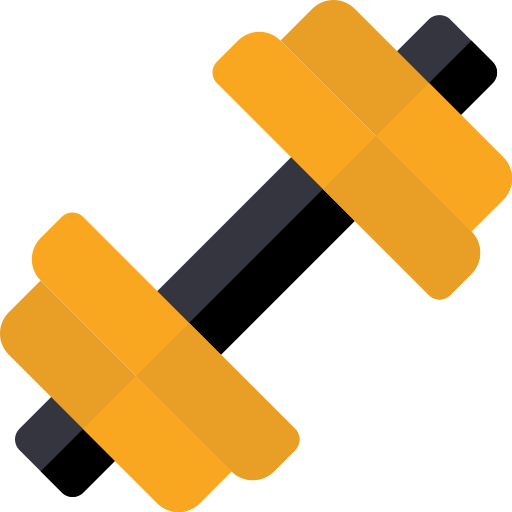
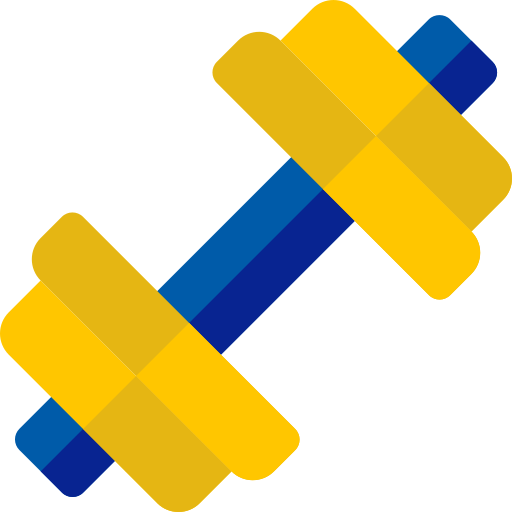
Accent Color e novas imagens

Changed region(s): [[0.0, 0.0, 0.9688, 0.9688]]

diff --git a/boxgym/src/boxgym/css/theme.css b/boxgym/src/boxgym/css/theme.css
@@ -64,7 +64,7 @@
 
 .date-picker-popup > * > .day-cell.selected {
     -fx-background-color: -main-theme-color !important;
-    -fx-text-fill: #111 !important;
+    -fx-text-fill: white !important;
 }
 
 .date-picker-popup > * > .day-cell.selected:hover {
@@ -77,6 +77,7 @@
 
 .combo-box-popup > .list-view > .virtual-flow > .clipped-container > .sheet > .list-cell:filled:selected{
     -fx-background-color: -main-theme-color !important;
+    -fx-text-fill: white !important;
 }
 
 .up-down-icon{

diff --git a/boxgym/src/boxgym/css/dialog-pane.css b/boxgym/src/boxgym/css/dialog-pane.css
@@ -14,7 +14,7 @@
 
 .myDialog .button:default{
     -fx-background-color: -main-theme-color !important;
-    -fx-text-fill: #111 !important;
+    -fx-text-fill: white !important;
 }
 
 .myDialog .button:default:hover {

diff --git a/boxgym/src/boxgym/css/base.css b/boxgym/src/boxgym/css/base.css
@@ -1,4 +1,4 @@
 * {
-    -main-theme-color: #921C35;
+    -main-theme-color: #082492;
     -secundary-theme-color: #f2f2f2;
 }
